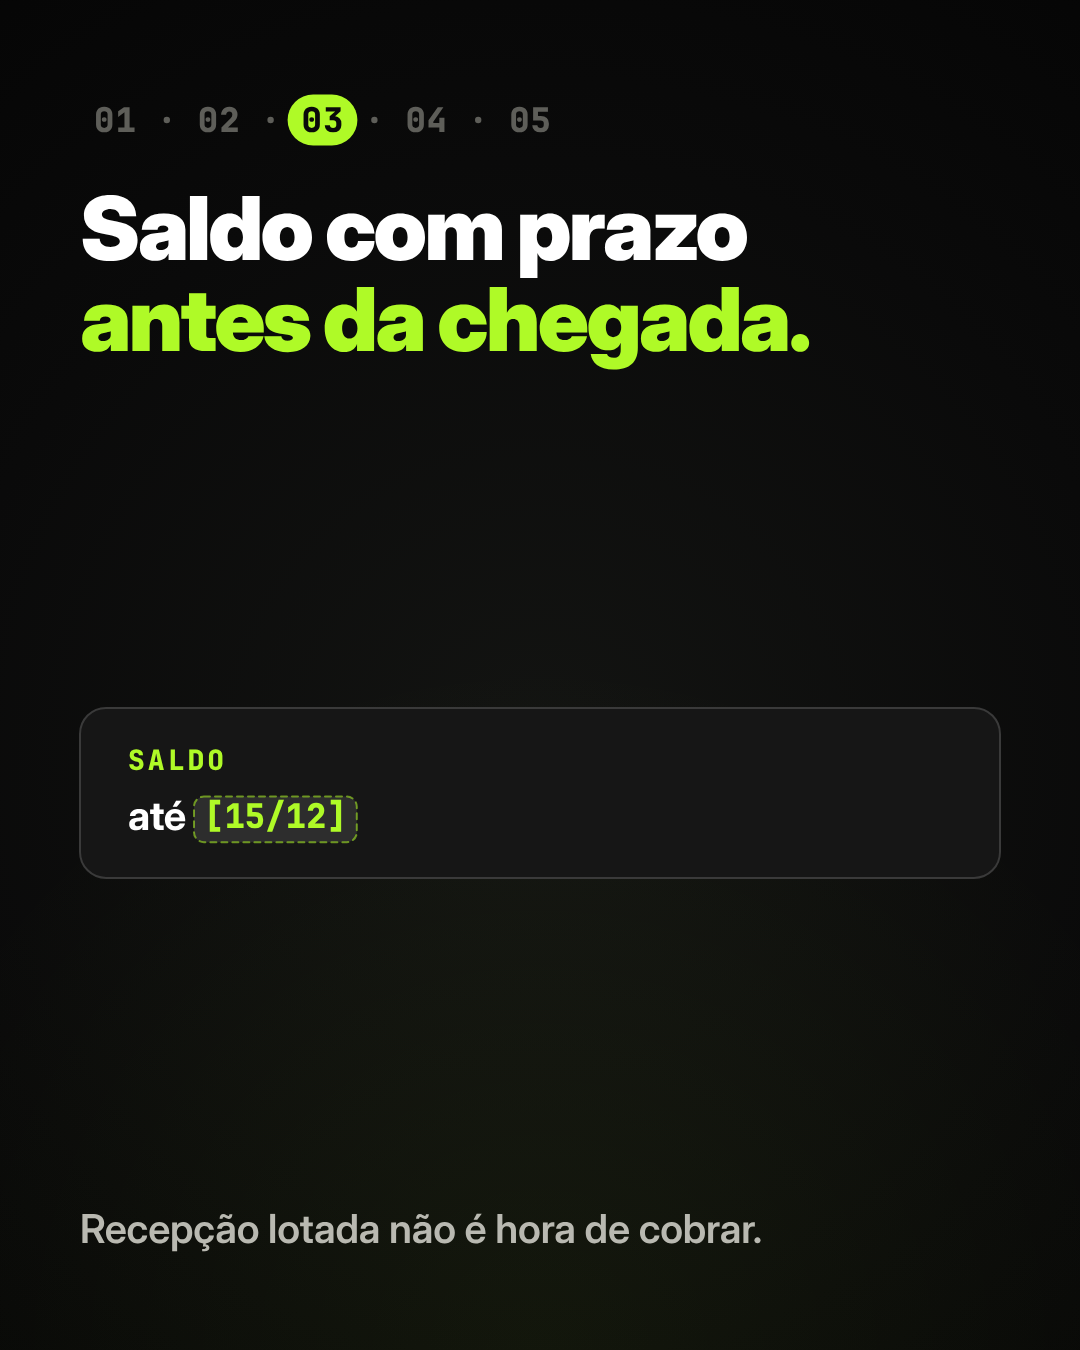
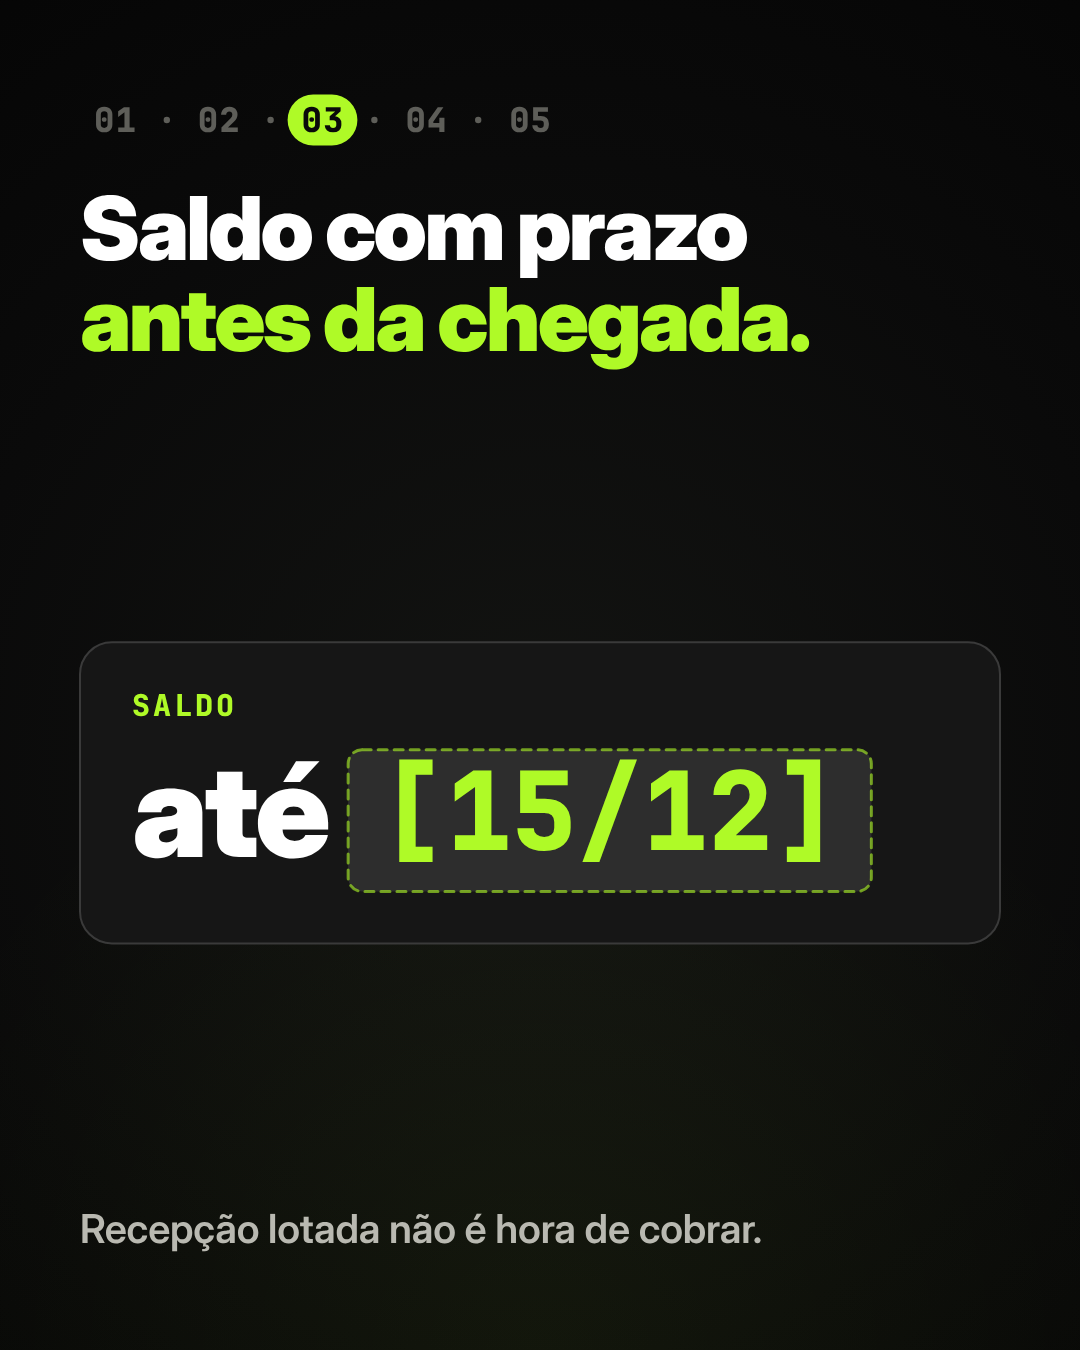
carrossel reveillon: capa '5 regras pro Réveillon da pousada.' em corpo grande; dado em destaque nos slides 03–06; linha do Passagem da recepção na tabela da série
Claude-Session: https://claude.ai/code/session_013tbQXo7UJRfPQ7QR6uRPs7

Changed region(s): [[0.3361, 0.56, 0.7944, 0.6844], [0.1222, 0.4978, 0.3361, 0.6533], [0.7944, 0.6222, 0.825, 0.6533]]

diff --git a/carrosseis/reveillon/src/slides.js b/carrosseis/reveillon/src/slides.js
@@ -335,6 +335,59 @@
     LINHAS.push({ tag: 'nota', texto: text, sozinha: false });
     return { top: y - size * 0.75 };
   }
+  // card do DADO EM DESTAQUE (slides 03–06): rótulo em mono, uma linha de apoio opcional (40 px) e o valor principal
+  // em corpo grande (≥ 2× o texto do card comum); [campos] em mono numa caixinha tracejada.
+  // so = true: só mede (devolve a altura); hMin: altura mínima (os dois cards lado a lado com a mesma altura)
+  function linhaRica(ctx, txt, size, maxW) {
+    const ph = Math.round(size * 0.84), fam = DISPLAY, wt = size >= 70 ? 900 : 700, ls = size >= 70 ? -0.025 * size : -0.4;
+    const sp = tw(ctx, ' ', fam, size, wt, ls), NB = ' ';
+    const words = txt.replace(/\[[^\]]+\]/g, (m) => m.replace(/ /g, NB)).split(' ').filter(Boolean).map((t) => {
+      t = t.replace(new RegExp(NB, 'g'), ' '); const isPh = /^\[.*\]$/.test(t);
+      return { t, ph: isPh, w: isPh ? tw(ctx, t, MONO, ph, 800) + 0.6 * ph : tw(ctx, t, fam, size, wt, ls) };
+    });
+    const lines = []; let cur = [], cw = 0;
+    for (const w of words) { if (cur.length && cw + sp + w.w > maxW) { lines.push({ words: cur, w: cw }); cur = []; cw = 0; } cur.push(w); cw += (cur.length > 1 ? sp : 0) + w.w; }
+    if (cur.length) lines.push({ words: cur, w: cw });
+    const n = lines.length;
+    if (n > 1 && lines[n - 1].words.length === 1 && lines[n - 2].words.length > 2) lines[n - 1].words.unshift(lines[n - 2].words.pop());
+    lines.forEach((l) => { l.w = l.words.reduce((a, w) => a + w.w, 0) + sp * (l.words.length - 1); });
+    if (lines.some((l) => l.w > maxW + 0.5)) throw new Error('o valor em destaque não cabe no card: ' + txt);
+    return { lines, sp, ph, fam, wt, ls, size, lh: size * 1.12 };
+  }
+  function desenhaRica(ctx, r, x, y, dest) {
+    r.lines.forEach((ln, i) => {
+      let xx = x; const yy = y + i * r.lh;
+      ln.words.forEach((w) => {
+        if (w.ph) {
+          const hh = r.ph * 1.3;
+          rr(ctx, xx, yy - r.ph * 0.98, w.w, hh, Math.min(14, r.ph * 0.25)); ctx.fillStyle = dest ? 'rgba(10,10,10,0.13)' : 'rgba(255,255,255,0.1)'; ctx.fill();
+          ctx.strokeStyle = dest ? 'rgba(10,10,10,0.4)' : rgba(C.lime, 0.6); ctx.lineWidth = r.size >= 70 ? 3 : 2; ctx.setLineDash(r.size >= 70 ? [9, 7] : [6, 5]); ctx.stroke(); ctx.setLineDash([]);
+          setFont(ctx, MONO, r.ph, 800); ctx.fillStyle = dest ? C.ink : C.lime; ctx.fillText(w.t, xx + 0.3 * r.ph, yy - r.ph * 0.06);
+        } else { setFont(ctx, r.fam, r.size, r.wt, r.ls); ctx.fillStyle = dest ? C.ink : C.white; ctx.fillText(w.t, xx, yy); }
+        xx += w.w + r.sp;
+      });
+    });
+    anota('texto', r.lines);
+  }
+  function grande(ctx, x, y, w, o, so = false, hMin = 0) {
+    const pad = 52, size = o.size || 96, dest = !!o.destaque;
+    const pre = o.pre ? linhaRica(ctx, o.pre, 40, w - 2 * pad) : null, main = linhaRica(ctx, o.main, size, w - 2 * pad);
+    const hLab = 44 + 22, hPre = pre ? pre.lines.length * 52 + 14 : 0;
+    const hMain = (main.lines.length - 1) * main.lh + size * 0.74 + main.ph * 0.32 + 18;
+    const h = Math.max(hMin, pad + hLab + hPre + hMain + pad - 18);
+    if (so) return h;
+    if (dest) { ctx.save(); ctx.shadowColor = rgba(C.lime, 0.25); ctx.shadowBlur = 50; card(ctx, x, y, w, h, { fill: C.lime, stroke: C.lime, r: 32 }); ctx.restore(); }
+    else card(ctx, x, y, w, h, { r: 32 });
+    // o conteúdo centrado na altura do card (quando hMin estica o card)
+    const ext = (h - (pad + hLab + hPre + hMain + pad - 18)) / 2;
+    let yy = y + pad + ext;
+    setFont(ctx, MONO, 30, 800, 3); ctx.fillStyle = dest ? C.ink : C.lime; ctx.fillText(o.lab, x + pad, yy + 22); yy += hLab;
+    if (pre) { desenhaRica(ctx, pre, x + pad, yy + 30, dest); yy += hPre; }
+    desenhaRica(ctx, main, x + pad, yy + size * 0.74, dest);
+    return h;
+  }
+  // um card em destaque centrado entre o título e o que vem embaixo (a nota ou o apoio)
+  const grandeNoMeio = (ctx, t, sp, o) => { const h = grande(ctx, 0, 0, CW, o, true); grande(ctx, M, mid(t, sp) - h / 2, CW, o); };
   // card rotulado em qualquer largura (os dois cards lado a lado do slide 4)
   function rotuladoEm(ctx, x, y, w, lab, txt, o = {}) {
     const dest = !!o.destaque, h = 40 + 30 + 22 + 52 + 26;
@@ -379,7 +432,7 @@
     // 1 · capa limão, texto preto
     1(ctx) {
       limeBackground(ctx);
-      const t = title(ctx, [{ t: 'Réveillon na pousada:', c: INK }, { t: '5 regras antes', c: INK, br: true }, { t: 'de abrir as reservas.', c: INK, br: true }], 0,
+      const t = title(ctx, [{ t: '5 regras pro', c: INK }, { t: 'Réveillon', c: INK, br: true }, { t: 'da pousada.', c: INK, br: true }], 0,
         { max: 170, maxH: 800, lh: 0.98, vcenter: [300, 1150], maxW: CW - 8, x: M + 2 });
       chip(ctx, M + 2, t.top - 74, 'GUIA RÁPIDO · SALVA ESSE', { size: 32, stroke: INK, color: INK, lw: 3 });
       swipe(ctx, INK, INK);
@@ -410,23 +463,23 @@
       const sp = support(ctx, 'Sem mínimo, sobra noite solta que ninguém compra.');
       const nt = nota(ctx, 'Datas e números são exemplos.', sp);
       const t = titulo2(ctx, 'Defina o pacote', 'com mínimo de noites.');
-      cards(ctx, t, nt, [['RÉVEILLON', '[30/12 a 02/01] · mínimo [3] noites']]);
+      grandeNoMeio(ctx, t, nt, { lab: 'RÉVEILLON', pre: '[30/12 a 02/01] · mínimo', main: '[3] noites', size: 130 });
     },
     // 4 · passo 02: sinal maior para data concorrida (dois cards lado a lado)
     4(ctx) {
       track(ctx, 2);
       const sp = support(ctx, 'Data disputada pede compromisso maior.');
       const t = titulo2(ctx, 'Sinal maior', 'para data concorrida.');
-      const w = (CW - 24) / 2, h = 40 + 30 + 22 + 52 + 26, y = mid(t, sp) - h / 2;
-      rotuladoEm(ctx, M, y, w, 'DATA COMUM', 'sinal [30%]');
-      rotuladoEm(ctx, M + w + 24, y, w, 'RÉVEILLON', 'sinal [50%]', { destaque: true });
+      const w = (CW - 24) / 2, a = { lab: 'DATA COMUM', pre: 'sinal', main: '[30%]', size: 110 }, b = { lab: 'RÉVEILLON', pre: 'sinal', main: '[50%]', size: 110, destaque: true };
+      const h = Math.max(grande(ctx, 0, 0, w, a, true), grande(ctx, 0, 0, w, b, true)), y = mid(t, sp) - h / 2;
+      grande(ctx, M, y, w, a, false, h); grande(ctx, M + w + 24, y, w, b, false, h);
     },
     // 5 · passo 03: saldo com prazo
     5(ctx) {
       track(ctx, 3);
       const sp = support(ctx, 'Recepção lotada não é hora de cobrar.');
       const t = titulo2(ctx, 'Saldo com prazo', 'antes da chegada.');
-      cards(ctx, t, sp, [['SALDO', 'até [15/12]']]);
+      grandeNoMeio(ctx, t, sp, { lab: 'SALDO', main: 'até [15/12]', size: 130 });
     },
     // 6 · passo 04: cancelamento com regra própria
     6(ctx) {
@@ -434,18 +487,19 @@
       const sp = support(ctx, 'Data de Réveillon não volta a vender em cima da hora.');
       const nt = nota(ctx, 'Monte a regra respeitando o Código de Defesa do Consumidor.', sp);
       const t = titulo2(ctx, 'Cancelamento', 'com regra própria.');
-      const txt = 'cancelou até [X] dias antes → crédito', hc = cardH(ctx, txt), hchip = 64, gap = 40;
+      const cd = { lab: 'CANCELAMENTO', main: 'cancelou até [X] dias antes → crédito', size: 96 };
+      const cs = 42, hchip = 84, gap = 44, hc = grande(ctx, 0, 0, CW, cd, true);
       const y0 = mid(t, nt) - (hchip + gap + hc) / 2, cyc = y0 + hchip / 2;
-      // chip "RÉVEILLON" → chip limão "REGRA PRÓPRIA" (centrados juntos)
-      const wa = tw(ctx, 'RÉVEILLON', MONO, 32, 800, 32 * 0.06) - 32 * 0.06 + 48, wb = tw(ctx, 'REGRA PRÓPRIA', MONO, 32, 800, 32 * 0.06) - 32 * 0.06 + 48, aw = 110;
+      // chip "RÉVEILLON" → chip limão "REGRA PRÓPRIA" (centrados juntos, maiores)
+      const pad = cs * 0.75, wa = tw(ctx, 'RÉVEILLON', MONO, cs, 800, cs * 0.06) - cs * 0.06 + 2 * pad, wb = tw(ctx, 'REGRA PRÓPRIA', MONO, cs, 800, cs * 0.06) - cs * 0.06 + 2 * pad, aw = 120;
       let x = 540 - (wa + aw + wb) / 2;
-      chip(ctx, x, cyc, 'RÉVEILLON', { size: 32, stroke: C.white, color: C.white, h: hchip });
-      const ax0 = x + wa + 22, ax1 = x + wa + aw - 22;
-      ctx.strokeStyle = C.lime; ctx.lineWidth = 6; ctx.lineCap = 'round'; ctx.lineJoin = 'round';
-      ctx.beginPath(); ctx.moveTo(ax0, cyc); ctx.lineTo(ax1, cyc); ctx.moveTo(ax1 - 18, cyc - 16); ctx.lineTo(ax1, cyc); ctx.lineTo(ax1 - 18, cyc + 16); ctx.stroke();
-      chip(ctx, x + wa + aw, cyc, 'REGRA PRÓPRIA', { size: 32, fill: C.lime, color: C.ink, h: hchip });
+      chip(ctx, x, cyc, 'RÉVEILLON', { size: cs, stroke: C.white, color: C.white, h: hchip, lw: 3 });
+      const ax0 = x + wa + 24, ax1 = x + wa + aw - 24;
+      ctx.strokeStyle = C.lime; ctx.lineWidth = 7; ctx.lineCap = 'round'; ctx.lineJoin = 'round';
+      ctx.beginPath(); ctx.moveTo(ax0, cyc); ctx.lineTo(ax1, cyc); ctx.moveTo(ax1 - 20, cyc - 18); ctx.lineTo(ax1, cyc); ctx.lineTo(ax1 - 20, cyc + 18); ctx.stroke();
+      chip(ctx, x + wa + aw, cyc, 'REGRA PRÓPRIA', { size: cs, fill: C.lime, color: C.ink, h: hchip });
       LINHAS.push({ tag: 'chips', texto: 'RÉVEILLON → REGRA PRÓPRIA', sozinha: false });
-      rotulado(ctx, y0 + hchip + gap, 'CANCELAMENTO', txt);
+      grande(ctx, M, y0 + hchip + gap, CW, cd);
     },
     // 7 · passo 05: horários e incluso escritos na confirmação
     7(ctx) {

diff --git a/carrosseis/reveillon/README.md b/carrosseis/reveillon/README.md
@@ -19,16 +19,20 @@ Tema: "Réveillon na pousada: 5 regras antes de abrir as reservas."
 
 | # | Título (em negrito, o trecho limão) | Meio |
 |---|---|---|
-| 01 | "Réveillon na pousada: / 5 regras antes / de abrir as reservas." (capa limão, texto preto) | chip "GUIA RÁPIDO · SALVA ESSE" · "ARRASTA →" |
+| 01 | "5 regras pro / Réveillon / da pousada." (capa limão, texto preto, no corpo da capa do Carrossel 01) | chip "GUIA RÁPIDO · SALVA ESSE" · "ARRASTA →" |
 | 02 | "Réveillon lota rápido. / **E a regra fica pra depois.**" | três balões "Tem vaga pro Réveillon?" chegando em volta do card "RÉVEILLON · 31/12", com o carimbo limão "QUASE LOTADO" inclinado · apoio: "Quem define antes não negocia caso a caso em dezembro." |
-| 03 | trilha **01** · "Defina o pacote / **com mínimo de noites.**" | RÉVEILLON: `[30/12 a 02/01]` · mínimo `[3]` noites · nota: "Datas e números são exemplos." · apoio: "Sem mínimo, sobra noite solta que ninguém compra." |
-| 04 | trilha **02** · "Sinal maior / **para data concorrida.**" | lado a lado: DATA COMUM · sinal `[30%]` e RÉVEILLON · sinal `[50%]` (destaque limão) · apoio: "Data disputada pede compromisso maior." |
-| 05 | trilha **03** · "Saldo com prazo / **antes da chegada.**" | SALDO: até `[15/12]` · apoio: "Recepção lotada não é hora de cobrar." |
-| 06 | trilha **04** · "Cancelamento / **com regra própria.**" | chip "RÉVEILLON" → chip limão "REGRA PRÓPRIA" · CANCELAMENTO: cancelou até `[X]` dias antes → crédito · nota: "Monte a regra respeitando o Código de Defesa do Consumidor." · apoio: "Data de Réveillon não volta a vender em cima da hora." |
+| 03 | trilha **01** · "Defina o pacote / **com mínimo de noites.**" | card em destaque: RÉVEILLON · `[30/12 a 02/01]` · mínimo / **`[3]` noites** (130 px) · nota: "Datas e números são exemplos." · apoio: "Sem mínimo, sobra noite solta que ninguém compra." |
+| 04 | trilha **02** · "Sinal maior / **para data concorrida.**" | dois cards em destaque lado a lado: DATA COMUM · sinal **`[30%]`** e RÉVEILLON · sinal **`[50%]`** (limão), valores em 110 px · apoio: "Data disputada pede compromisso maior." |
+| 05 | trilha **03** · "Saldo com prazo / **antes da chegada.**" | card em destaque: SALDO · **até `[15/12]`** (130 px) · apoio: "Recepção lotada não é hora de cobrar." |
+| 06 | trilha **04** · "Cancelamento / **com regra própria.**" | chips maiores "RÉVEILLON" → limão "REGRA PRÓPRIA" · card em destaque: CANCELAMENTO · **cancelou até `[X]` dias antes → crédito** (96 px) · nota: "Monte a regra respeitando o Código de Defesa do Consumidor." · apoio: "Data de Réveillon não volta a vender em cima da hora." |
 | 07 | trilha **05** · "Horários e o que / está incluso / **escritos na confirmação.**" | bolha VOCÊ: "Seu Réveillon está confirmado, `[nome]`! Entrada a partir das `[14h]` de `[30/12]`, saída até `[12h]` de `[02/01]`. Incluso: `[café da manhã e ceia]`. Qualquer dúvida, é só chamar." · apoio: "Ceia, horário e o que está incluso: tudo combinado antes." |
 | 08 | "Regra definida antes, / **Réveillon tranquilo depois.**" | apoio: "Salva pra montar o seu e manda pra quem cuida das reservas aí." · logo |
 
-**Títulos:** todos ficam em 2 ou 3 linhas. Os do 01 e do 07 têm a quebra fixada no código para não sobrar palavra sozinha numa linha. O do 07 fica em 3 linhas para manter o corpo dos outros passos.
+**Títulos:** todos ficam em 2 ou 3 linhas. O do 07 tem a quebra fixada no código para não sobrar palavra sozinha numa linha e fica em 3 linhas para manter o corpo dos outros passos. A capa tem um título mais curto que a legenda do post. A legenda.txt continua com "Réveillon na pousada: 5 regras antes de abrir as reservas."
+
+**O dado como destaque (03–06):** cada card tem o rótulo em mono e o valor principal em corpo grande, de 96 a 130 px (2,4× a 3,3× os 40 px do texto do card comum).
+- Os `[campos]` aparecem em mono, numa caixa tracejada.
+- O card fica centrado entre o título e o que vem embaixo: a nota, nos slides 03 e 06, ou o apoio.
 
 ## Revisão
 

diff --git a/carrosseis/README.md b/carrosseis/README.md
@@ -10,6 +10,7 @@ Carrosséis estáticos para o Instagram da @fazlohospeda, com a mesma identidade
 | **04** | DICA | "Checklist do check-in" | 8 · 1080×1350 (4:5) | `01.png` (limão) | [`carrossel-04/`](carrossel-04) |
 | **05** | DICA | "Fechamento do caixa do dia" (sexta, 12h) | 8 · 1080×1350 (4:5) | `01.png` (limão) | [`carrossel-05/`](carrossel-05) |
 | **06** | DICA | "Mensagem de boas-vindas pronta" (sábado, 19h) | 8 · 1080×1350 (4:5) | `01.png` (limão) | [`carrossel-06/`](carrossel-06) |
+| **Passagem da recepção** | DICA | "Outra pessoa vai assumir a recepção. O que ela precisa saber?" (quarta, 28/10) | 6 · 1080×1350 (4:5) | `01.png` (limão) | [`passagem-recepcao/`](passagem-recepcao) |
 | **Réveillon** | DICA | "Réveillon na pousada: 5 regras antes de abrir as reservas" | 8 · 1080×1350 (4:5) | `01.png` (limão) | [`reveillon/`](reveillon) |
 
 ## Capas — regra fixa (a partir de outubro de 2026)
